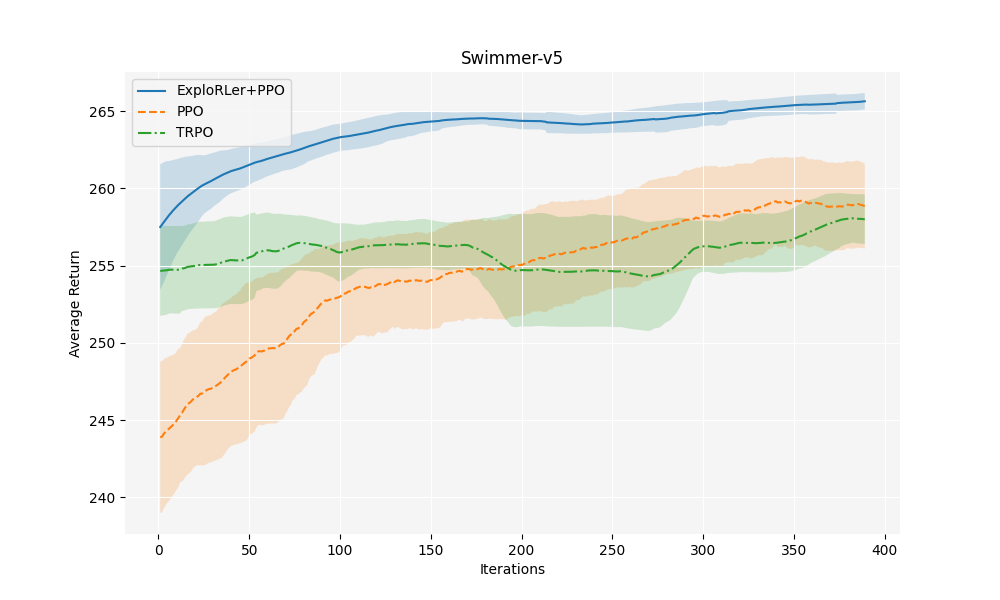
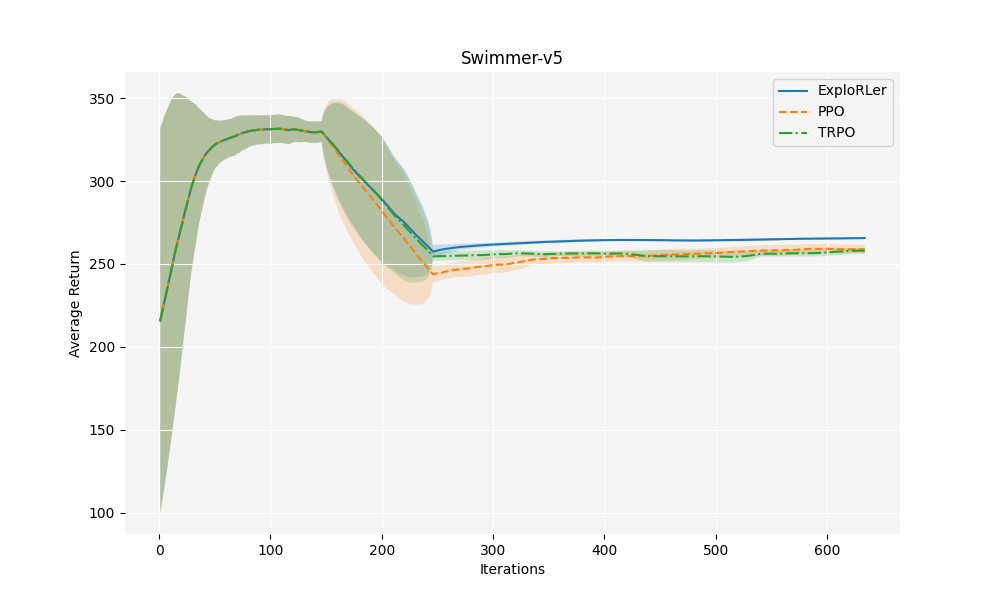
update

diff --git a/plots/plot_paper.py b/plots/plot_paper.py
@@ -6,15 +6,15 @@ import sys
 sys.path.append(os.path.abspath(os.path.join(os.path.dirname(__file__), '..')))
 import argparse
 from data_collection_config import args_ant, args_half_cheetah, args_walker2d, args_humanoid, args_swimmer, args_pendulum, args_bipedal_walker
+import re
 
 parser = argparse.ArgumentParser()
 args, rest_args = parser.parse_known_args()
 
 # env = "Ant-v5"
-# env = "HalfCheetah-v5"
 # env = "Walker2d-v5"
-env = "Humanoid-v5"
-# env = "Swimmer-v5"
+# env = "Humanoid-v5"
+env = "Swimmer-v5"
 # env = "Pendulum-v1"
 # env = "BipedalWalker-v3"
 
@@ -28,12 +28,40 @@ elif env == "Humanoid-v5":
     args = args_humanoid.get_args(rest_args)
 elif env == "Swimmer-v5":
     args = args_swimmer.get_args(rest_args)
+elif env == "Pendulum-v1":
+    args = args_pendulum.get_args(rest_args)
+elif env == "BipedalWalker-v3":
+    args = args_bipedal_walker.get_args(rest_args)
 
-# start_iteration = 1
-start_iteration = 1000000 // args.n_steps_per_rollout
+proxy_env = env
+if env == "Ant-v5":
+    proxy_env = "Ant"
+
+pretrain_file = "../base_job_output/"+proxy_env+"/ppo_plot_out.txt"
+
+pretrain_reward_values = []
+
+with open(pretrain_file, "r") as f:
+    lines = f.readlines()
+
+# Go through each line and extract the reward if it's a reward line
+for line in lines:
+    if line.startswith("avg 3 return on policy"):
+        match = re.findall(r"[-+]?\d*\.\d+|\d+", line)
+        if match:
+            pretrain_reward = float(match[-1])  # get the last number in the line
+            pretrain_reward_values.append(pretrain_reward)
+
+# Convert rewards to numpy array for easier math
+pretrain_rewards = np.array(pretrain_reward_values)
+
+print("Pretrain Rewards shape: ", pretrain_rewards.shape)
+
+start_iteration = 1
+# start_iteration = 1000000 // args.n_steps_per_rollout
 
 plot_list = [
-    ["PPO_upper_bound", "ExploRLer+PPO"],
+    ["PPO_upper_bound", "ExploRLer"],
     ["PPO_normal_training", "PPO"],
     ["TRPO_normal_training", "TRPO"],
 ]
@@ -50,6 +78,10 @@ for plot_item in plot_list:
     # Convert rewards to numpy array for easier math
     rewards = np.load(file_path)
     print("Rewards shape: ", rewards.shape)
+
+    # Add pretrain rewards to the beginning of the rewards
+    rewards = np.concatenate((pretrain_rewards, rewards))
+    print("Rewards shape after concatenation: ", rewards.shape)
 
     # Smoothing window
     window = 100
@@ -86,7 +118,8 @@ for i, plot_metric in enumerate(plot_metrics):
 ax = plt.gca()
 ax.set_facecolor('#f5f5f5')
 
-plt.xlabel('Samples (x' + str(args.n_steps_per_rollout) + ')')
+# plt.xlabel('Samples (x' + str(args.n_steps_per_rollout) + ')')
+plt.xlabel('Iterations')
 plt.ylabel('Average Return')
 plt.title(env)
 plt.grid(True, color='white')
@@ -94,4 +127,7 @@ plt.grid(True, color='white')
 legend = plt.legend()
 legend.get_frame().set_facecolor('#f5f5f5')
 
-plt.savefig('../images/paper2.png')
+for spine in ax.spines.values():
+    spine.set_visible(False)
+
+plt.savefig('../paper_plots/'+env+'.png')
